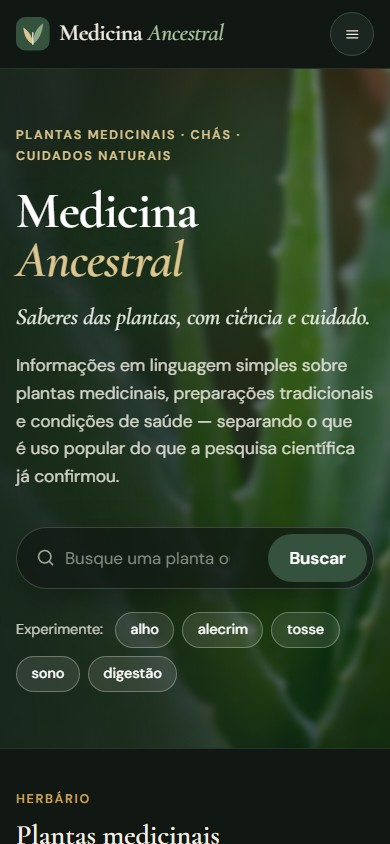
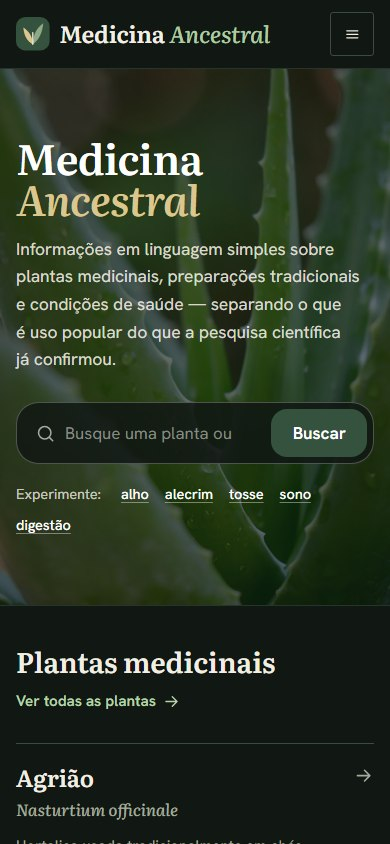
Atualiza README e imagens com o novo layout

diff --git a/README.md b/README.md
@@ -44,6 +44,8 @@ referências — e um selo que mostra **quanta evidência científica existe** p
 | ✍ **Fácil de editar** | Novos artigos são só arquivos Markdown — sem banco de dados, sem backend. |
 
 <div align="center">
+  <img src="docs/catalogo.jpg" alt="Catálogo de plantas e preparações em três colunas" width="100%" />
+  <br /><br />
   <img src="docs/preparacao.jpg" alt="Página de uma planta medicinal (Alho)" width="72%" />
   &nbsp;
   <img src="docs/mobile.jpg" alt="Versão mobile" width="22%" />
@@ -106,7 +108,7 @@ src/
 
 - **Frontmatter:** usamos o pacote `yaml` em vez de `gray-matter`, porque o `gray-matter` depende de APIs do Node (`Buffer`, `fs`) e quebra no navegador.
 - **Busca:** local, sem acentos e sem diferenciar maiúsculas; pesquisa título, nomes de plantas, palavras-chave, categoria e texto.
-- **Visual:** estilo "botânico editorial" em tema escuro — fontes Cormorant Garamond (títulos) e DM Sans (texto) via Google Fonts, paleta em `src/styles/variables.css`, ícones SVG próprios em `components/Icon` (cada categoria tem um `icon` em `data/categories.ts`).
+- **Visual:** estilo "botânico editorial" em tema escuro — fontes Literata (títulos) e Hanken Grotesk (texto) via Google Fonts, hero com foto, catálogo em três colunas sem cartões, selos de evidência planos, paleta em `src/styles/variables.css`, ícones SVG próprios em `components/Icon`.
 
 </details>
 
